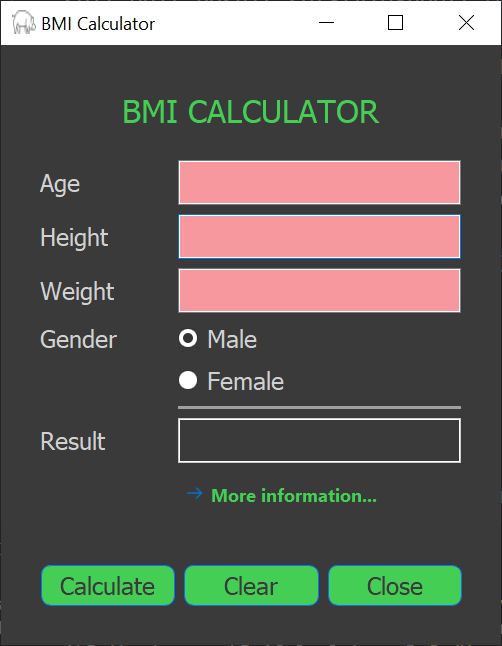
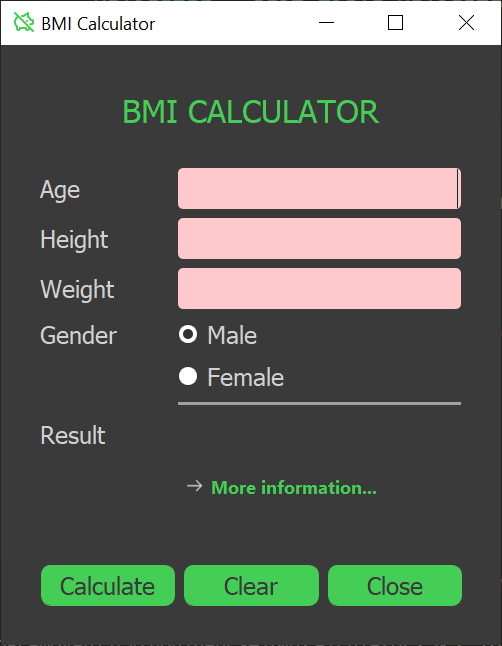
design, doc improvements

diff --git a/BmiCalculator.py b/BmiCalculator.py
@@ -206,13 +206,13 @@ class Formular(QDialog):
         validator = edit_field.validator()
         state = validator.validate(edit_field.text(), 0)[0]
         if edit_field.text() == "0" or edit_field.text() == "":
-            color = '#f6989d' # red
+            color = '#FFC8CB' # red
         elif state == QValidator.Acceptable:
-            color = '#c4df9b' # green
+            color = '#E5F9C6' # green
         elif state == QValidator.Intermediate:
             color = '#fff79a' # yellow
         else:
-            color = '#f6989d' # red
+            color = '#FFC8CB' # red
         edit_field.setStyleSheet('QLineEdit { background-color: %s; font: 16pt} QToolTip { background-color: #8ad4ff; color: black; border: #8ad4ff solid 1px}' % color)
 
 
